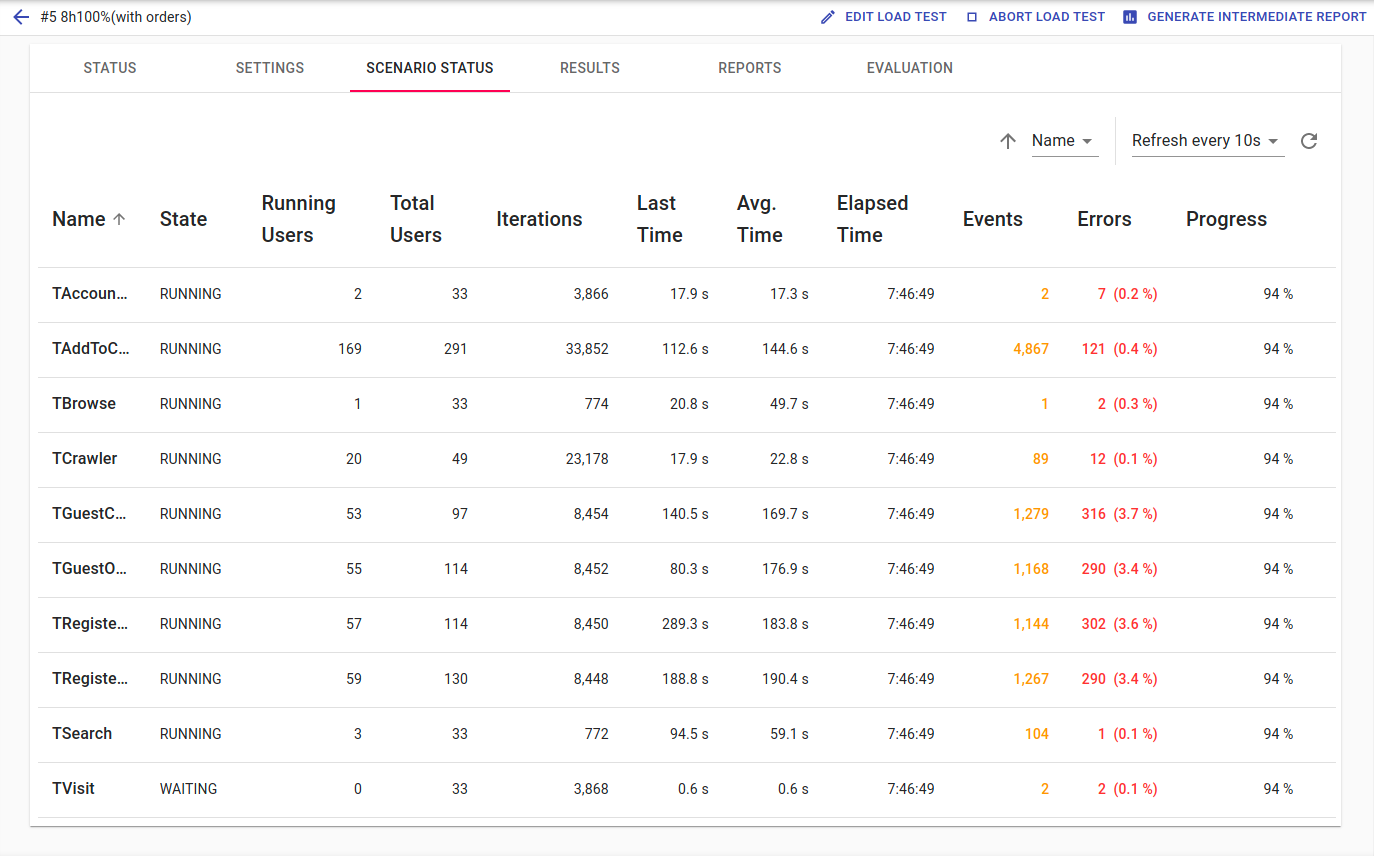
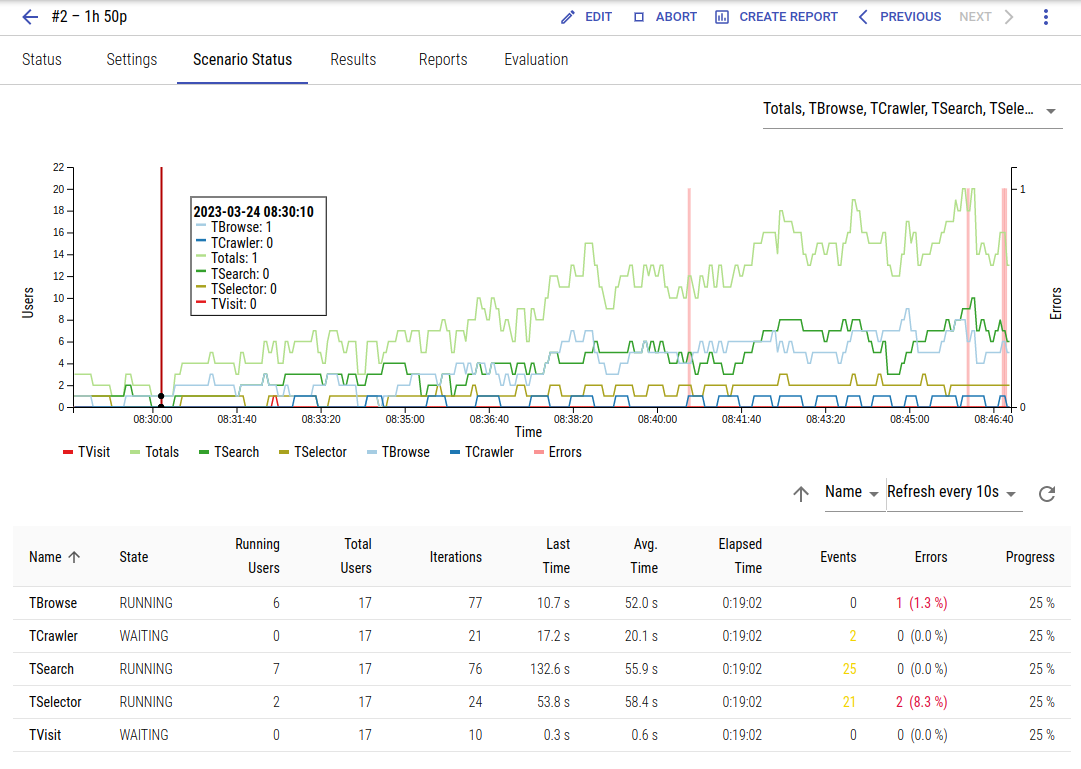
audit log + live metrics

diff --git a/content/en/xtc/loadtesting/170-monitor-lt.md b/content/en/xtc/loadtesting/170-monitor-lt.md
@@ -24,8 +24,23 @@ Steps that failed due to errors (like timeouts or failed authentication) will be
 
 ### Scenario Status
 
-The _Scenario Status_ tab only contains information while the test is actually running or finished. This is an overview of all test scenarios that are executed in this load test, containing scenario name and state and other useful information such as currently running users, average scenario runtime and especially the number of events and errors that occurred in this scenario:
+The _Scenario Status_ tab only contains information while the test is actually running or finished. After the [live metrics]({{< relref "#live-metrics" >}}) follows an overview of all test scenarios that are executed in this load test, containing scenario name and state and other useful information such as currently running users, average scenario runtime and especially the number of events and errors that occurred in this scenario:
 
 {{< image src="xtc/loadtest_scenarioStatus.png" >}}
 The scenario status view for a running load test.
 {{< /image >}}
+
+#### Live Metrics
+
+The graph on top of the scenario status table is updated live while the load test is running and displays information on the number of currently active users for each test scenario as well as total users. Hovering over the graph displays a popup of the values for this point in time.
+
+Since this might be a lot of information, you can filter in the dropdown for single or several test scenarios or just display total values. 
+
+Red vertical lines are displayed when scenario errors occurred. These are bound to the respective scenarios, i.e. if you select a single scenario only the errors for this scenario will be visible in the graph. If you select _Totals_, all errors will be displayed.
+
+{{% note notitle %}}
+Please note that there may be gaps in the live metrics even though the test was running fine during that time - this might happen due to a restart or relocation of the status updater (which regularly fetches the test status from the agents). Also, if the status updater does not receive any status from the agents for whatever reason, the charts will contain a gap for that period. 
+{{% /note %}}
+
+The data for the scenario status chart is available for a limited period of time only (7 days after the load test has ended). After that time the chart will no longer be displayed as it would be empty anyway.
+

diff --git a/content/en/xtc/basics/070-audit-log.md b/content/en/xtc/basics/070-audit-log.md
@@ -12,6 +12,10 @@ XTC comes with an Audit Log. Use this feature to learn which activity has been p
 
 The _Audit Log_ page in your **organization** shows just organization-related activities while the _Audit Log_ page in a **project** lists activities for that project only. 
 
+{{< TODO / >}} Which activities are currently logged?
+
+{{< TODO / >}} Build screenshot with neutral usernames etc.
+
 Use the search/filter controls available at the audit log tables to narrow down the list of activities. Entries in the audit log expire automatically after 180 days.
 
 {{% note notitle %}}
